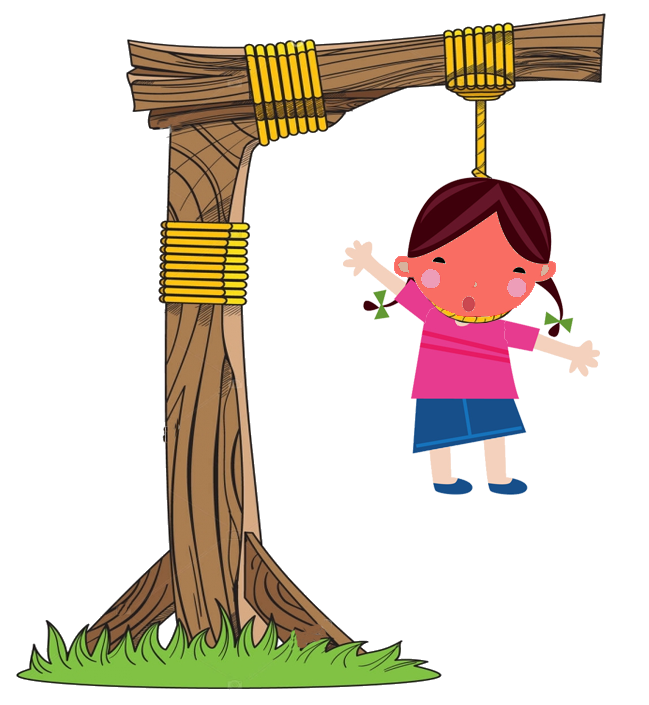
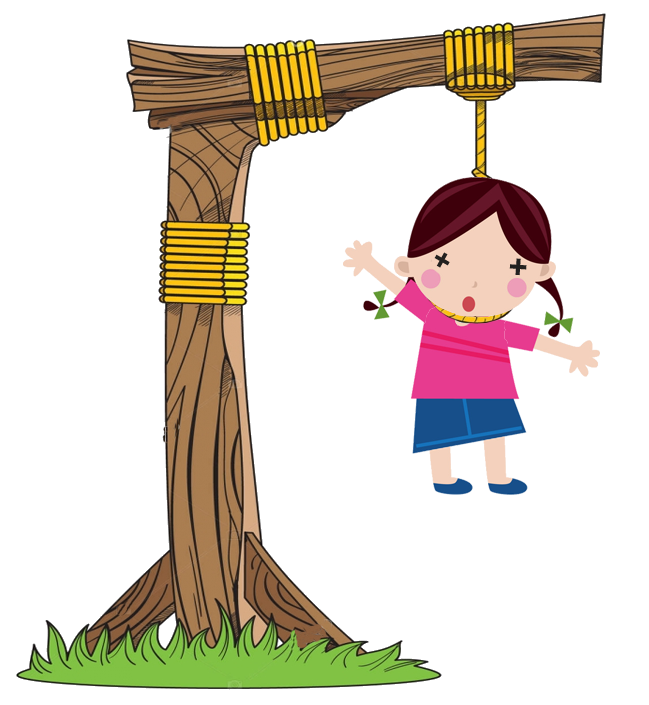
Posicionamento das palavras e animação da forca.

Changed region(s): [[0.5855, 0.2809, 0.8629, 0.4681]]

diff --git a/src/components/Word/index.js b/src/components/Word/index.js
@@ -1,6 +1,6 @@
 import React, { useContext } from 'react'
 
-import { Container } from './styles'
+import { Container, Word } from './styles'
 
 import Letter from '../Letter'
 
@@ -11,7 +11,23 @@ export default function () {
 
 	return (
 		<Container>
-			{word && word.split('').map(letter => {
+			{word && word.split(' ').map(wordItem => (
+				<Word>
+					{wordItem.split('').map(letter => {
+						if(alreadyChosen.includes(letter)) {
+							return <Letter letter={letter} />
+						}
+
+						// if(letter === ' ') {
+						// 	return <Letter />
+						// }
+						
+						return <Letter letter="_" />
+					})}
+				</Word>
+			))}
+
+			{/* {word.split('').map(letter => {
 				if(alreadyChosen.includes(letter)) {
 					return <Letter letter={letter} />
 				}
@@ -21,7 +37,7 @@ export default function () {
 				}
 				
 				return <Letter letter="_" />
-			})}
+			})} */}
 		</Container>
 	)
 }

diff --git a/src/components/Image/index.js b/src/components/Image/index.js
@@ -1,13 +1,25 @@
-import React, { useContext } from 'react'
+import React, { useContext, useState, useEffect } from 'react'
 
 import { GlobalContext } from '../../globalContext'
 
 import { Image } from './styles'
 
-export default function () {
+export default function ({ animate = true }) {
 	const { image } = useContext(GlobalContext)
 
+	const [animationClass, setAnimationClass] = useState('')
+
+	useEffect(() => {
+		if(animate) {
+			setAnimationClass('')
+
+			setTimeout(() => {
+				setAnimationClass('animate__flash')
+			}, 20)
+		}
+	}, [image])
+
 	return (
-		<Image src={image} />
+		<Image src={image} className={`animate__animated animate__faster ${animationClass}`} />
 	)
 }

diff --git a/src/globalContext.js b/src/globalContext.js
@@ -7,13 +7,12 @@ import img4 from './assets/forca/4.png'
 import img5 from './assets/forca/5.png'
 import img6 from './assets/forca/6.png'
 import img7 from './assets/forca/7.png'
-import img8 from './assets/forca/8.png'
 
 import wordsDatabase from './wordsDatabase'
 
 export const GlobalContext = createContext()
 
-const maxErrors = 7
+const maxErrors = 6
 const images = [
 	img1,
 	img2,
@@ -21,8 +20,7 @@ const images = [
 	img4,
 	img5,
 	img6,
-	img7,
-	img8
+	img7
 ]
 
 const GlobalProvider = ({ children }) => {

diff --git a/src/components/LetterGrid/index.js b/src/components/LetterGrid/index.js
@@ -6,7 +6,7 @@ import Button from '../Button'
 
 import { Container } from './styles'
 
-const alphabet = ['A', 'B', 'C', 'D', 'E', 'F', 'G', 'H', 'I', 'J', 'L', 'M', 'N', 'O', 'P', 'Q', 'R', 'S', 'T', 'U', 'V', 'X', 'Z']
+const alphabet = ['A', 'B', 'C', 'D', 'E', 'F', 'G', 'H', 'I', 'J', 'K', 'L', 'M', 'N', 'O', 'P', 'Q', 'R', 'S', 'T', 'U', 'V', 'W', 'X', 'Y', 'Z']
 
 export default function () {
 	const { choose } = useContext(GlobalContext)

diff --git a/src/components/Word/styles.js b/src/components/Word/styles.js
@@ -3,7 +3,16 @@ import styled from 'styled-components'
 export const Container = styled.div`
 	grid-area: word;
 	display: flex;
-	align-self: flex-end;
+	justify-self: center;
+	align-items: flex-end;
+	justify-items: center;
 	flex-wrap: wrap;
-	width: 90%;
+	width: 80%;
+`
+
+export const Word = styled.div`
+	flex: 1;
+	display: flex;
+	justify-content: center;
+	margin: 0 20px;
 `

diff --git a/src/wordsDatabase.js b/src/wordsDatabase.js
@@ -4,8 +4,16 @@ export default [
 		tip: 'Parábola de Jesus'
 	},
 	{
+		word: 'TIKTOK TELEGRAM ITUNES',
+		tip: '3 apps famosos'
+	},
+	{
 		word: 'REI XERXES',
 		tip: 'Personagem bíblico'
+	},
+	{
+		word: 'FLANELA ESFREGAO DETERGENTE',
+		tip: '3 itens de limpeza'
 	},
 	{
 		word: 'CURA DE DEZ LEPROSOS',

diff --git a/src/components/Errors/styles.js b/src/components/Errors/styles.js
@@ -5,10 +5,11 @@ export const Container = styled.div`
 	display: flex;
 	flex-direction: column;
 	justify-self: flex-end;
-	margin: 50px;
+	margin: 0 50px;
 	width: 200px;
 	padding-left: 16px;
 	height: fit-content;
+	min-height: 80px;
 	border-left: solid 1px grey;
 
 	h1 {

diff --git a/src/components/AlreadyChosen/styles.js b/src/components/AlreadyChosen/styles.js
@@ -5,8 +5,10 @@ export const Container = styled.div`
 	display: flex;
 	flex-direction: column;
 	justify-self: flex-end;
-	margin: 50px;
+	margin: 0 50px;
 	width: 200px;
+	height: fit-content;
+	min-height: 80px;
 
 	h1 {
 		font-size: 20px;

diff --git a/src/components/Letter/styles.js b/src/components/Letter/styles.js
@@ -1,7 +1,7 @@
 import styled from 'styled-components'
 
 export const Container = styled.div`
-	font-size: 60px;
+	font-size: 50px;
 	display: flex;
 	justify-content: center;
 	margin: 0 ${props => props.marginHorizontal}px;
